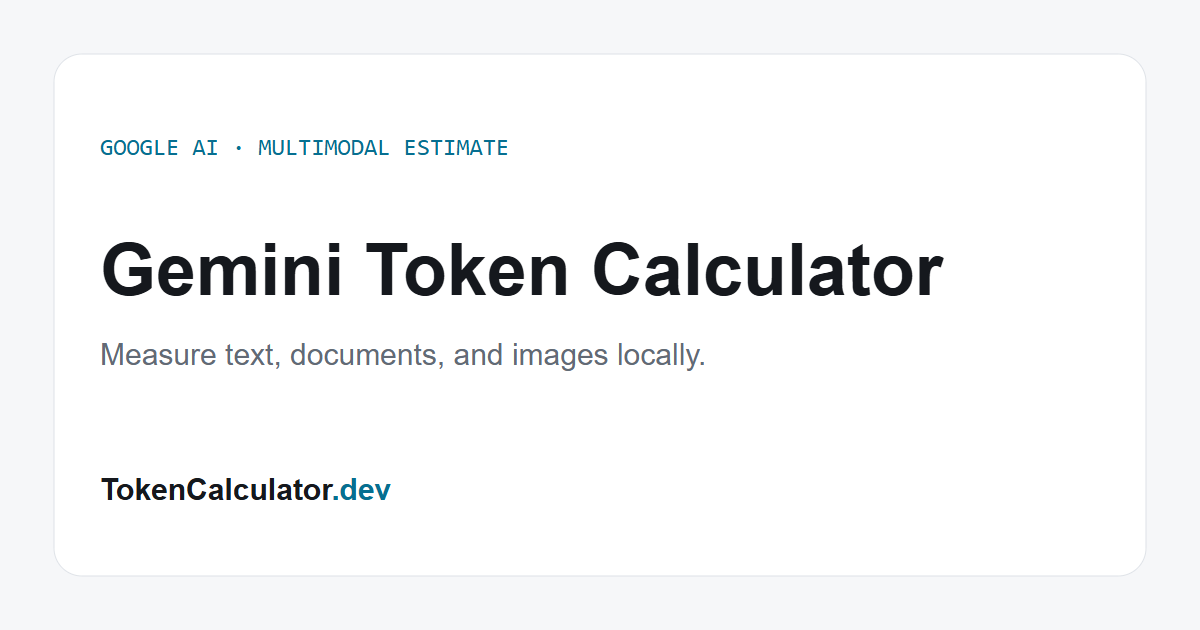
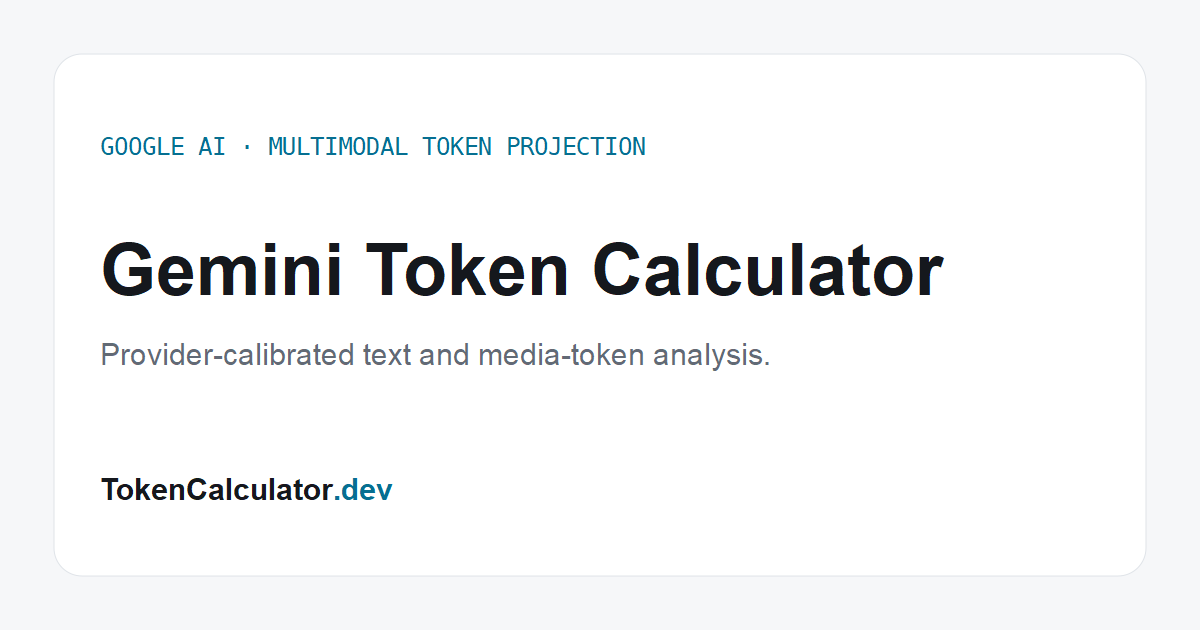
Strengthen privacy and token methodology messaging

diff --git a/src/engines/tokenizers/count.ts b/src/engines/tokenizers/count.ts
@@ -24,7 +24,7 @@ export function countText(text: string, model: ModelConfig): { tokens: number; m
 
   const bytes = byteLength(text);
   const factor = model.tokenizer === 'claude-estimate' ? 3.75 : model.tokenizer === 'deepseek-estimate' ? 3.85 : 4;
-  return { tokens: Math.max(1, Math.ceil(bytes / factor)), method: `Calibrated ${factor.toFixed(2)} UTF-8 bytes/token estimate` };
+  return { tokens: Math.max(1, Math.ceil(bytes / factor)), method: `Provider-Calibrated UTF-8 Projection · ${factor.toFixed(2)} bytes/token` };
 }
 
 export function inspectText(text: string, model: ModelConfig): TokenInspectionPiece[] {

diff --git a/README.md b/README.md
@@ -2,16 +2,16 @@
 
 Web GUI: [https://tokencalculator.dev](https://tokencalculator.dev)
 
-A browser-only LLM token calculator for OpenAI, Anthropic Claude, Google Gemini, and DeepSeek. It measures text, readable documents, and supported images, then reports token usage, context-window fit, and API cost estimates.
+A privacy-first, browser-based LLM token calculator for OpenAI, Anthropic Claude, Google Gemini, and DeepSeek. It measures text, readable documents, and supported images, then reports token usage, context-window fit, and API cost projections without uploading user content.
 
 ## Features
 
 - Live token counts across four providers
-- Exact local BPE counting for supported OpenAI models
-- Clearly labeled calibrated estimates for other provider families
+- Exact local BPE tokenization for supported OpenAI models
+- Deterministic Provider-Calibrated UTF-8 Projections for other tokenizer families
 - Client-side TXT, Markdown, code, CSV, JSON, PDF, and DOCX extraction
 - Provider image-token formulas where documented
-- Context overflow warnings and pricing estimates
+- Context-window overflow analysis and pricing projections
 - Static provider-specific SEO pages
 - No prompt or uploaded-file storage
 
@@ -35,10 +35,10 @@ npm run build
 - TypeScript
 - Tailwind CSS v4
 - Web Worker tokenization
-- `js-tiktoken` for supported exact BPE counts
+- `js-tiktoken` for exact BPE counts on supported models
 - Models.dev pricing refresh with a bundled offline fallback
 
-Provider pricing and tokenization behavior can change. Results identify whether they are exact, based on a provider formula, or estimated; provider API usage and invoices remain authoritative.
+Provider pricing and tokenization behavior can change. Results identify whether they use exact BPE tokenization, a provider-published vision formula, or a deterministic provider-calibrated projection; provider API usage and invoices remain authoritative.
 
 ## Companion package
 

diff --git a/docs/superpowers/specs/2026-08-22-token-calculator-design.md b/docs/superpowers/specs/2026-08-22-token-calculator-design.md
@@ -4,7 +4,7 @@
 
 TokenCalculator.dev answers one question: how many input tokens will a text prompt, supported document, or image use for a selected LLM, and what will those input tokens cost?
 
-The application is a free, static, browser-only tool. User content never leaves the device. Launch supports OpenAI, Anthropic, Google, and DeepSeek only.
+The application is a free, static, privacy-first browser-based tool. User content never leaves the device. Launch supports OpenAI, Anthropic, Google, and DeepSeek only.
 
 ## Launch scope
 
@@ -38,7 +38,7 @@ Excluded ideas belong in `docs/FUTURE_IDEAS.md` and must not enter the launch im
 ## Accuracy contract
 
 - OpenAI text uses the appropriate local `o200k_base` or `cl100k_base` encoding and is labeled exact.
-- Anthropic, Gemini, and DeepSeek text uses a lightweight official tokenizer only when one is practical in-browser. Otherwise it uses a documented calibrated estimate.
+- Anthropic, Gemini, and DeepSeek text uses a lightweight official tokenizer only when one is practical in-browser. Otherwise it uses the documented, deterministic Provider-Calibrated UTF-8 Token Projection.
 - Vision-capable models use their provider's published image dimension, patch, tile, detail, and cap rules.
 - Models without documented image support reject image calculation rather than inventing a result.
 - Uploaded documents are converted to plain text locally and then counted through the selected model strategy.

diff --git a/docs/superpowers/plans/2026-08-22-token-calculator-implementation.md b/docs/superpowers/plans/2026-08-22-token-calculator-implementation.md
@@ -7,7 +7,7 @@ Ship the approved static, local-only calculator for OpenAI, Anthropic, Google, a
 ## Checkpoints
 
 1. **Foundation** — Configure Astro, Tailwind v4, sitemap generation, TypeScript, Vitest, global design tokens, and base metadata.
-2. **Calculation domain** — Add typed providers/models, input pricing, context calculations, OpenAI encodings, calibrated estimates, and published vision formulas with unit tests.
+2. **Calculation domain** — Add typed providers/models, input pricing, context calculations, exact OpenAI BPE encodings, deterministic Provider-Calibrated UTF-8 Token Projections, and published vision formulas with unit tests.
 3. **Local files** — Read text formats directly; lazily extract text-based DOCX and PDF content; return typed errors for unsupported or unreadable documents.
 4. **Calculator** — Build the unified mixed-input composer, zero-click live results, provider summaries, exact token inspection, model detail rows, accuracy labels, context rulers, workload planner, share/export actions, theme, responsive behavior, and worker-based local calculation.
 5. **SEO surface** — Generate the universal and four provider pages, methodology/trust pages, visible FAQs, WebApplication/FAQ JSON-LD, sitemap, robots, `llms.txt`, and social assets.

diff --git a/packages/tokencalculator-core/README.md b/packages/tokencalculator-core/README.md
@@ -1,6 +1,6 @@
 # @jay0073/tokencalculator-core
 
-Dependency-free token cost, workload, and context-window math for Node.js and browser projects.
+Dependency-free token-cost, workload-forecasting, and context-window mathematics for Node.js and browser projects from a privacy-first, browser-based token calculator.
 
 Web GUI: [https://tokencalculator.dev](https://tokencalculator.dev)
 
